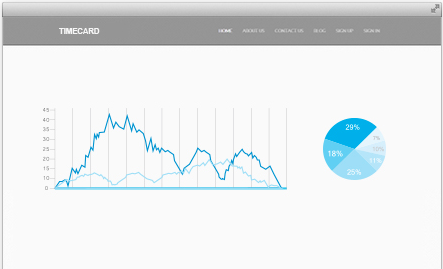
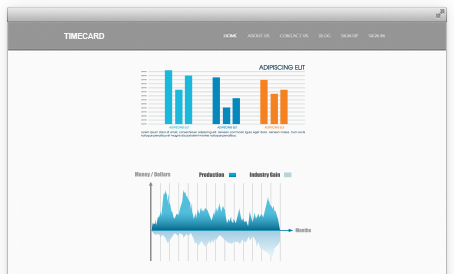
integrate images

diff --git a/app/views/Application/index.html b/app/views/Application/index.html
@@ -17,15 +17,9 @@
             For the backgrounds, you can combine from the bgs folder :D
         -->
         <article class="slide" id="showcasing" style="background: url('/public/img/backgrounds/landscape.png') repeat-x top center;">
-            <img class="asset left-30 sp600 t90 z1" src="/public/resources/Application/index/laptop.jpg" />
+            <img class="asset left-30 sp600 t90 z1" src="/public/resources/Application/index/laptop.png" />
             <div class="info">
                 <h2>Easily view timecards and reports.</h2>
-            </div>
-        </article>
-        <article class="slide" id="showcasing" style="background: url('/public/img/backgrounds/landscape.png') repeat-x top center;">
-            <img class="asset left-30 sp600 t120 z1" src="/public/img/slides/scene1/macbook.png" />
-            <div class="info">
-                <h2>Beautiful theme for showcasing your works.</h2>
             </div>
         </article>
         <article class="slide" id="ideas" style="background: url('/public/img/backgrounds/aqua.jpg') repeat-x top center;">
@@ -33,33 +27,15 @@
                 <h2>Many different types of timecards all on one website</h2>
             </div>
             <img class="asset left-480 sp600 t260 z1" src="/public/resources/Application/index/graph1.png" />
-            <img class="asset left-210 sp600 t213 z2" src="/public/img/slides/scene2/middle.png" />
+            <img class="asset left-210 sp600 t213 z2" src="/public/resources/Application/index/middle.png" />
             <img class="asset left60 sp600 t260 z1" src="/public/resources/Application/index/graph2.png" />
         </article>
-        <article class="slide" id="ideas" style="background: url('/public/img/backgrounds/aqua.jpg') repeat-x top center;">
-            <div class="info">
-                <h2>We love to turn ideas into beautiful things.</h2>
-            </div>
-            <img class="asset left-480 sp600 t260 z1" src="/public/img/slides/scene2/left.png" />
-            <img class="asset left-210 sp600 t213 z2" src="/public/img/slides/scene2/middle.png" />
-            <img class="asset left60 sp600 t260 z1" src="/public/img/slides/scene2/right.png" />
-        </article>
         <article class="slide" id="tour" style="background: url('/public/img/backgrounds/color-splash.jpg') repeat-x top center;">
-            <img class="asset left-472 sp650 t100 z3" src="/public/resources/Application/index/alldevices.jpg" />
+            <img class="asset left-472 sp650 t100 z3" src="/public/resources/Application/index/alldevices.png" />
             <div class="info">
                 <h2>Use any device or lock to one computer</h2>
             </div>
-        </article>
-        <article class="slide" id="tour" style="background: url('/public/img/backgrounds/color-splash.jpg') repeat-x top center;">
-            <img class="asset left-472 sp650 t210 z3" src="/public/img/slides/scene3/ipad.png" />
-            <img class="asset left-365 sp600 t270 z4" src="/public/img/slides/scene3/iphone.png" />
-            <img class="asset left-350 sp450 t135 z2" src="/public/img/slides/scene3/desktop.png" />
-            <img class="asset left-185 sp550 t220 z1" src="/public/img/slides/scene3/macbook.png" />
-            <div class="info">
-                <h2>Fully Responsive theme</h2>
-                <a href="features.html">TOUR THE PRODUCT</a>
-            </div>
-        </article>              
+        </article>            
     </section>
 
     <div id="showcase">
